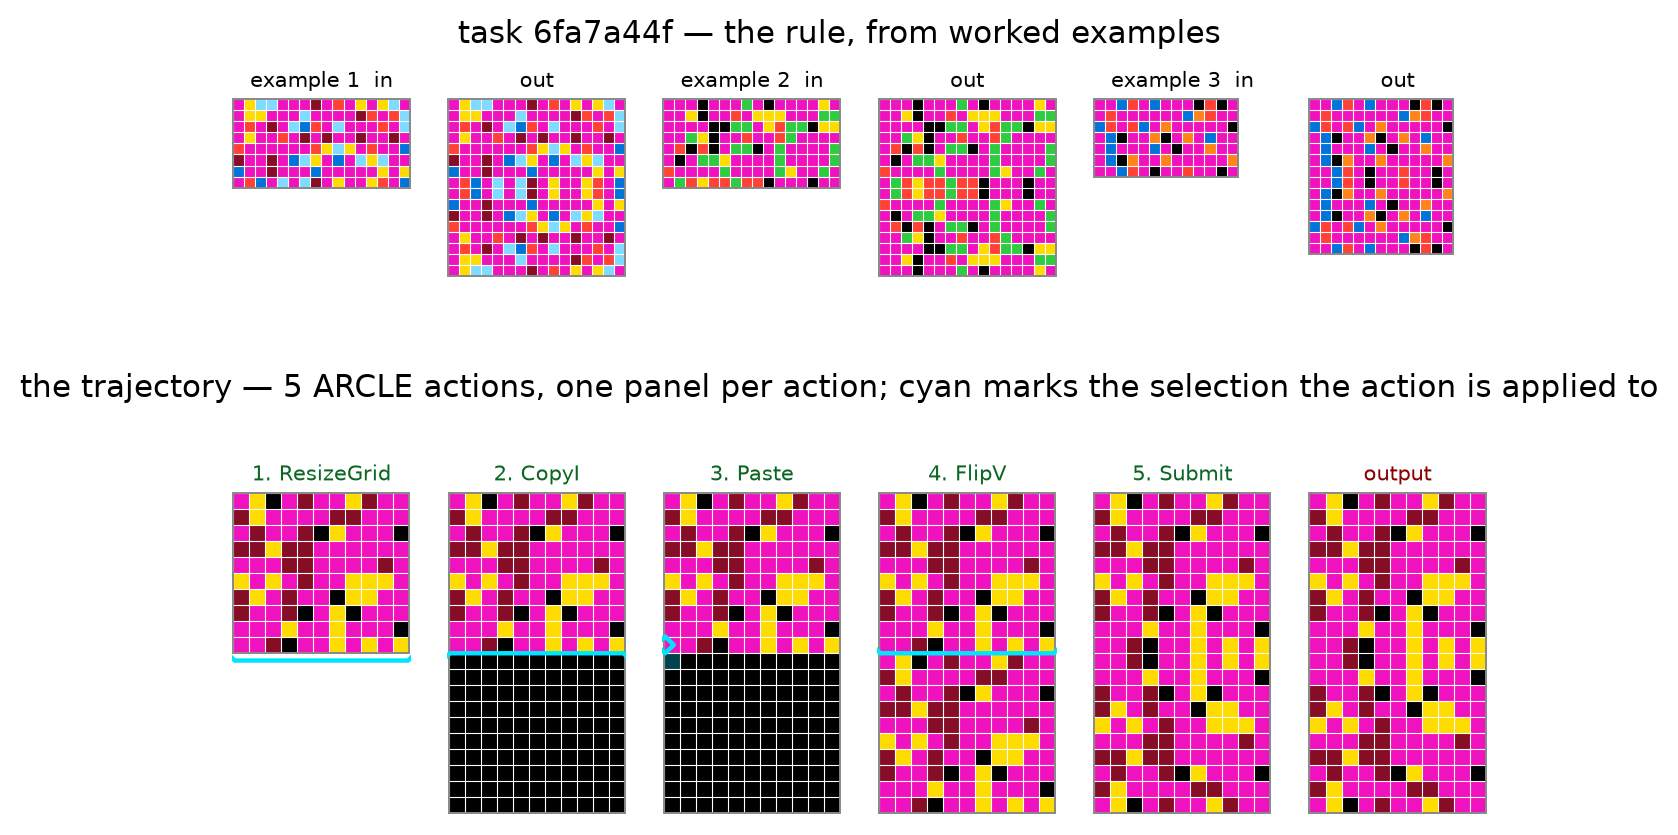
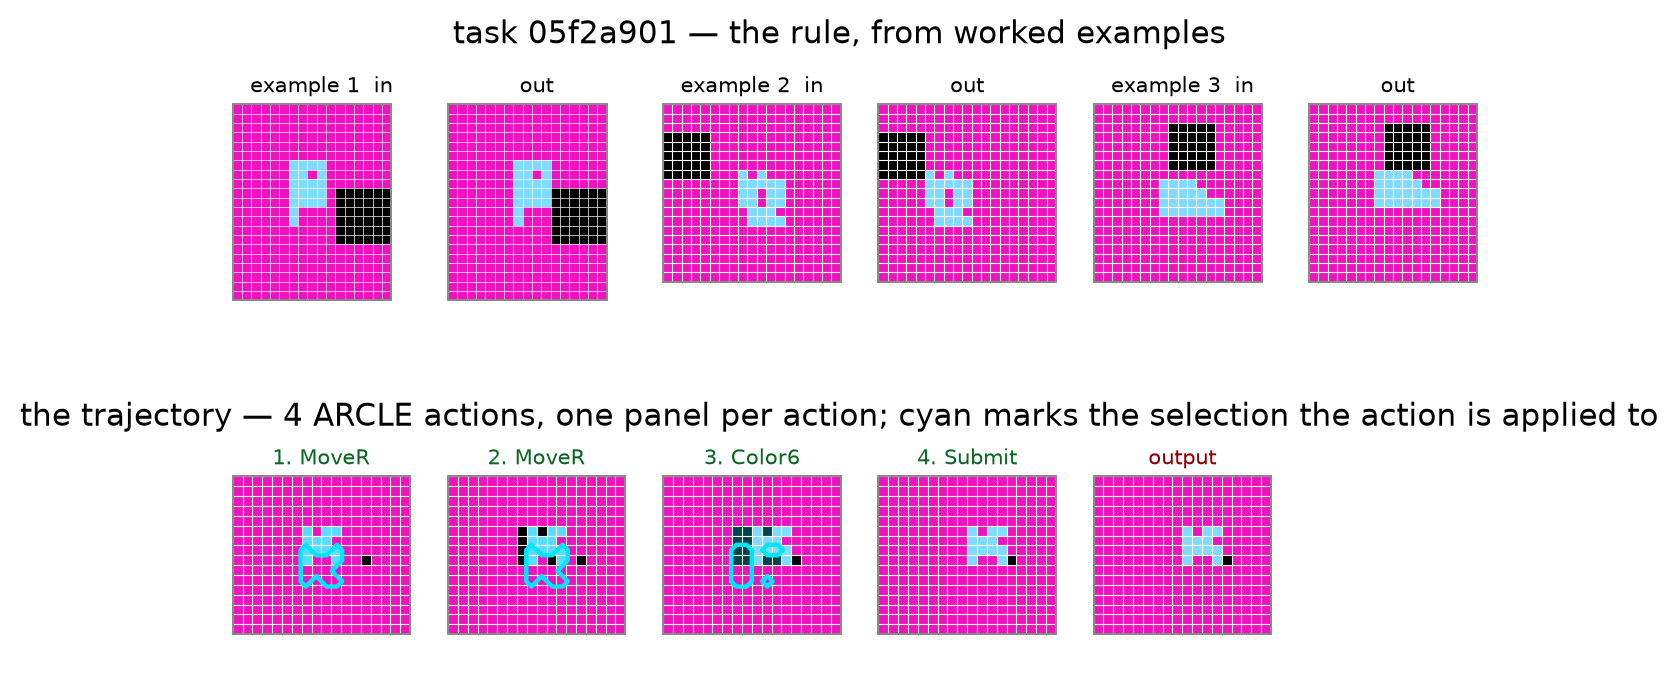
Animate a trajectory as a GIF that shows where each action landed
The existing SOLAR trace GIFs name the action in text under the grid ("9
Color9") and stop there, so three things stay unreadable: which cells the
action applied to, what it changed, and how far along the episode is. They also
tint the selection in a colour the ARC palette itself uses, which makes a
highlighted region indistinguishable from grid content.

make_teaser_gif.py renders each action as two frames — the grid with its
selected cells ringed, then the result with the changed cells ringed — over a
timeline strip of the whole episode, with the worked examples and the target
kept on screen so the rule stays legible.

Markers are white outlines cased in black rather than a tint. A first pass used
cyan for "changed" and it disappeared into colour 8, which is the same problem
one step removed: in a ten-colour palette every hue belongs to something.
Selection and result never share a frame, so the two markers differ by line
style instead of hue.

Static teaser re-rendered from the same episode for consistency.

diff --git a/make_teaser_gif.py b/make_teaser_gif.py
@@ -1,0 +1,215 @@
+#!/usr/bin/env python3
+"""Animate one trajectory as a GIF that shows *where* each action landed.
+
+The older SOLAR trace GIFs print the action as text under the grid ("9 Color9"),
+which leaves three things unreadable: which cells the action applied to, what it
+changed, and how far along the episode is. Worse, they tint the selection in a
+colour the ARC palette also uses, so a highlighted region is indistinguishable
+from grid content.
+
+This renders each action as two frames — the grid with its selection outlined
+just before the action, then the result with the changed cells ringed — over a
+timeline strip of every operation in the episode, with the worked examples and
+the target kept on screen so the rule stays legible.
+
+    python make_teaser_gif.py --root /hdd_data/yunho/ARC_best10_r3/whole \
+        --task 05f2a901 --out figure/teaser.gif
+"""
+from __future__ import annotations
+
+import argparse
+import json
+from pathlib import Path
+
+import matplotlib
+matplotlib.use("Agg")
+import matplotlib.colors as mcolors
+import matplotlib.patches as mpatches
+import matplotlib.pyplot as plt
+import numpy as np
+from PIL import Image
+
+ARC_COLORS = ["#000000", "#0074D9", "#FF4136", "#2ECC40", "#FFDC00", "#AAAAAA",
+              "#F012BE", "#FF851B", "#7FDBFF", "#870C25", "#F0F0F0"]
+ARC_CMAP = mcolors.ListedColormap(ARC_COLORS)
+ARC_NORM = mcolors.BoundaryNorm(boundaries=list(range(12)), ncolors=11)
+
+# A marker must never be mistakable for a cell colour. Any hue collides with
+# something in a 10-colour palette — cyan sat right on top of colour 8 and the
+# "changed" ring vanished into the object it was marking. White ringed in black
+# reads on all ten, and since selection and result never share a frame the two
+# markers are told apart by line style, not hue.
+MARK_EDGE = "#FFFFFF"
+MARK_CASE = "#101010"
+
+
+def draw_grid(ax, grid, h, w, box=None, sel=None, diff=None, title="",
+              title_size=8, title_color="#222222"):
+    arr = np.asarray(grid, dtype=int)[:h, :w]
+    ax.imshow(arr, cmap=ARC_CMAP, norm=ARC_NORM, interpolation="nearest", zorder=1)
+    lw = 0.5 if max(h, w) <= 16 else (0.35 if max(h, w) <= 24 else 0.25)
+    for x in np.arange(-0.5, w, 1):
+        ax.axvline(x, color="#FFFFFF", linewidth=lw, zorder=2)
+    for y in np.arange(-0.5, h, 1):
+        ax.axhline(y, color="#FFFFFF", linewidth=lw, zorder=2)
+    ax.set_xticks([]); ax.set_yticks([])
+    for s in ax.spines.values():
+        s.set_visible(False)
+    ax.add_patch(plt.Rectangle((-0.5, -0.5), w, h, fill=False,
+                               edgecolor="#909090", linewidth=0.8, zorder=6))
+
+    def ring(mask, wid, style):
+        """Outline the mask cell by cell — an outline survives any fill colour."""
+        m = np.asarray(mask, dtype=bool)[:h, :w]
+        for r, c in zip(*np.nonzero(m)):
+            for col, lwid, z in ((MARK_CASE, wid + 1.2, 7), (MARK_EDGE, wid, 8)):
+                ax.add_patch(mpatches.Rectangle(
+                    (c - 0.5, r - 0.5), 1, 1, fill=False, edgecolor=col,
+                    linewidth=lwid, linestyle=style, zorder=z))
+
+    if sel is not None:
+        ring(sel, 1.5, "solid")
+    if diff is not None:
+        ring(diff, 1.6, (0, (2.2, 1.6)))
+
+    if title:
+        ax.set_title(title, fontsize=title_size, pad=3, color=title_color)
+    if box:
+        BH, BW = box
+        ax.set_xlim(-0.7, BW - 0.3)
+        ax.set_ylim(BH - 0.3, -0.7)
+    ax.set_aspect("equal")
+
+
+def draw_timeline(ax, ops, cur, done):
+    """One chip per operation: what has run, what is running, what is left."""
+    ax.set_xlim(0, max(len(ops), 1)); ax.set_ylim(0, 1); ax.axis("off")
+    for i, name in enumerate(ops):
+        if i < done:
+            fc, tc, ec = "#D8E6D2", "#33613f", "#B7CFAE"
+        elif i == cur:
+            fc, tc, ec = "#1F6F4A", "#FFFFFF", "#12432c"
+        else:
+            fc, tc, ec = "#F0F0F0", "#909090", "#DDDDDD"
+        ax.add_patch(mpatches.FancyBboxPatch(
+            (i + 0.06, 0.2), 0.88, 0.6, boxstyle="round,pad=0.02,rounding_size=0.12",
+            facecolor=fc, edgecolor=ec, linewidth=0.8))
+        short = name.replace("FloodFill", "FF").replace("Rotate", "Rot")
+        ax.text(i + 0.5, 0.5, short, ha="center", va="center",
+                fontsize=min(7.5, 46 / max(len(ops), 1)), color=tc, weight="bold")
+
+
+def frame(d, ops, step, phase, box, ex_n, task, dpi):
+    """phase 0 = about to act (selection shown), 1 = acted (diff shown)."""
+    grids, dims = d["grid"], d["grid_dim"]
+    sel_masks = d["selection_mask"]
+    before = np.array(grids[step]); hb, wb = dims[step]
+    after = np.array(grids[step + 1]); ha, wa = dims[step + 1]
+
+    if phase == 0:
+        show, (h, w) = before, (hb, wb)
+        sel = np.array(sel_masks[step]); diff = None
+        head = f"{step + 1}. {ops[step]}   —   selection"
+    else:
+        show, (h, w) = after, (ha, wa)
+        sel = None
+        if (hb, wb) == (ha, wa):
+            diff = (np.array(before)[:h, :w] != np.array(after)[:h, :w])
+        else:
+            diff = None
+        head = f"{step + 1}. {ops[step]}   —   result"
+
+    fig = plt.figure(figsize=(8.4, 4.5), dpi=dpi)
+    fig.patch.set_facecolor("white")
+    gs = fig.add_gridspec(2, 3, width_ratios=[1.05, 2.5, 1.0],
+                          height_ratios=[6.0, 1.0],
+                          left=0.02, right=0.98, top=0.87, bottom=0.10,
+                          wspace=0.12, hspace=0.28)
+
+    # left: the worked examples that state the rule, centred against the canvas
+    exg = gs[0, 0].subgridspec(3, 1, height_ratios=[1, 9, 1])[1].subgridspec(
+        ex_n, 2, wspace=0.12, hspace=0.30)
+    ex_box = (max(max(d["ex_in_grid_dim"][i][0], d["ex_out_grid_dim"][i][0])
+                  for i in range(ex_n)),
+              max(max(d["ex_in_grid_dim"][i][1], d["ex_out_grid_dim"][i][1])
+                  for i in range(ex_n)))
+    for i in range(ex_n):
+        a1 = fig.add_subplot(exg[i, 0]); a2 = fig.add_subplot(exg[i, 1])
+        eh, ew = d["ex_in_grid_dim"][i]
+        draw_grid(a1, d["ex_in"][i], eh, ew, box=ex_box,
+                  title="example in" if i == 0 else "", title_size=6.5)
+        eh, ew = d["ex_out_grid_dim"][i]
+        draw_grid(a2, d["ex_out"][i], eh, ew, box=ex_box,
+                  title="out" if i == 0 else "", title_size=6.5)
+
+    ax_main = fig.add_subplot(gs[0, 1])
+    draw_grid(ax_main, show, h, w, box=box, sel=sel, diff=diff,
+              title=head, title_size=11,
+              title_color="#12432c" if phase else "#8a5a00")
+
+    ax_t = fig.add_subplot(gs[0, 2])
+    th, tw = d["grid_dim"][-1]
+    draw_grid(ax_t, d["grid"][-1], th, tw, box=box, title="target", title_size=7)
+
+    draw_timeline(fig.add_subplot(gs[1, :]), ops, step, step + phase)
+
+    fig.suptitle(f"{task}   ·   step {step + 1} of {len(ops)}",
+                 fontsize=12, y=0.965, color="#222222")
+    # under the timeline, not beside the target — it collided with that title
+    fig.text(0.5, 0.012, "solid ring = cells this action selects        "
+             "dashed ring = cells the action changed",
+             ha="center", fontsize=7.5, color="#777777")
+
+    fig.canvas.draw()
+    img = Image.frombuffer("RGBA", fig.canvas.get_width_height(),
+                           fig.canvas.buffer_rgba(), "raw", "RGBA", 0, 1)
+    plt.close(fig)
+    return img.convert("RGB")
+
+
+def main() -> None:
+    ap = argparse.ArgumentParser()
+    ap.add_argument("--root", default="/hdd_data/yunho/ARC_best10_r3/whole")
+    ap.add_argument("--task", required=True)
+    ap.add_argument("--file", default=None)
+    ap.add_argument("--out", default="figure/teaser.gif")
+    ap.add_argument("--max_steps", type=int, default=12)
+    ap.add_argument("--examples", type=int, default=2)
+    ap.add_argument("--ms", type=int, default=900, help="ms per frame")
+    ap.add_argument("--hold", type=int, default=2600, help="ms on the final frame")
+    ap.add_argument("--dpi", type=int, default=110)
+    args = ap.parse_args()
+
+    if args.file:
+        path = Path(args.file)
+    else:
+        cands = sorted(Path(args.root).glob(f"test.{args.task}.*/*.json"))
+        if not cands:
+            raise SystemExit(f"no trajectory for {args.task} under {args.root}")
+        path = cands[0]
+    d = json.loads(path.read_text())
+    ops = d["operation_name"]
+    n = min(len(ops), args.max_steps)
+    ex_n = min(args.examples, len(d["ex_in"]))
+
+    dims = d["grid_dim"]
+    box = (max(hw[0] for hw in dims), max(hw[1] for hw in dims))
+
+    frames, durations = [], []
+    for s in range(n):
+        for phase in (0, 1):
+            frames.append(frame(d, ops, s, phase, box, ex_n, args.task, args.dpi))
+            durations.append(args.ms if phase == 0 else int(args.ms * 1.15))
+    durations[-1] = args.hold
+
+    out = Path(args.out)
+    out.parent.mkdir(parents=True, exist_ok=True)
+    frames[0].save(out, save_all=True, append_images=frames[1:],
+                   duration=durations, loop=0, optimize=True)
+    kb = out.stat().st_size / 1024
+    print(f"{out}  {len(frames)} frames, {frames[0].size[0]}x{frames[0].size[1]}, "
+          f"{kb:.0f} KB  ({' → '.join(ops[:n])}{' …' if n < len(ops) else ''})")
+
+
+if __name__ == "__main__":
+    main()

diff --git a/README.md b/README.md
@@ -10,6 +10,14 @@ an object, paste, submit — not just an input/output pair.
 this repo. The trajectories they produce are published separately as a dataset
 (see *Data*).
 
+![one episode, action by action](figure/teaser.gif)
+
+Each action gets two frames: the grid with the cells it selects ringed, then the
+result with the cells it changed ringed. The strip along the bottom is the whole
+episode, so it is always clear how much is left. Markers are white outlines
+rather than a tint — every hue is already a cell colour, and a tinted selection
+is indistinguishable from grid content.
+
 ## What is actually being claimed
 
 Getting the right answer is easy to check and easy to fake — a maker can copy
@@ -32,7 +40,7 @@ maker/
 
 re-arc/                    vendored RE-ARC generators/verifiers/DSL (Apache-2.0)
 docs/arcle_reference_v2.md the operation space the makers are written against
-figure/teaser.png
+figure/teaser.png  figure/teaser.gif
 
 gen_rearc_makers_llm.py    generate makers with an LLM  (stage 2 lives inside)
 verify_grid_makers.py      stage 1 — do N fresh samples all reach the target
@@ -42,6 +50,7 @@ critique_to_feedback.py    turn findings into per-task feedback for the next rou
 gen_rearc_trajectories_v2.py  roll makers out into trajectories
 export_release.py          pack trajectories into parquet shards
 make_teaser.py             render one trajectory as a figure
+make_teaser_gif.py         animate one trajectory as a GIF
 viz_trajectories.py        Streamlit viewer
 utils.py                   recording format and selection helpers
 ```
@@ -61,7 +70,8 @@ python gen_rearc_trajectories_v2.py --subfolder arc-agi-1 --num_samples 10 \
     --rand_seed 0 --max_grid_dim 30 30 --data_folder /tmp/traj
 
 # look at one
-python make_teaser.py --root /tmp/traj/whole --task 6fa7a44f --out figure/mine.png
+python make_teaser.py     --root /tmp/traj/whole --task 05f2a901 --out figure/mine.png
+python make_teaser_gif.py --root /tmp/traj/whole --task 05f2a901 --out figure/mine.gif
 streamlit run viz_trajectories.py
 ```
 
